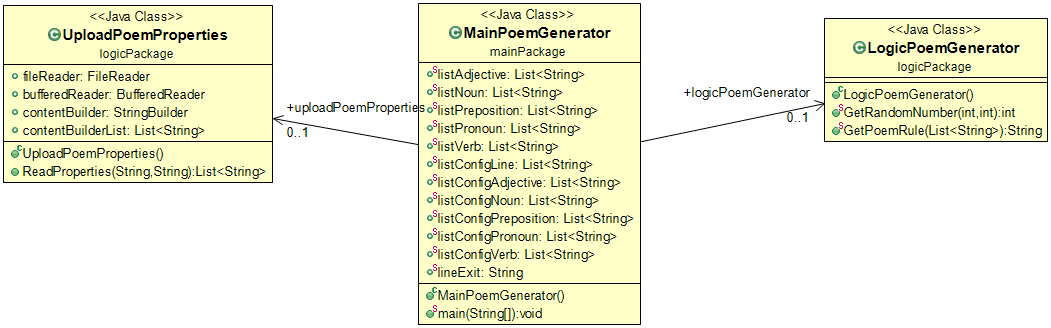
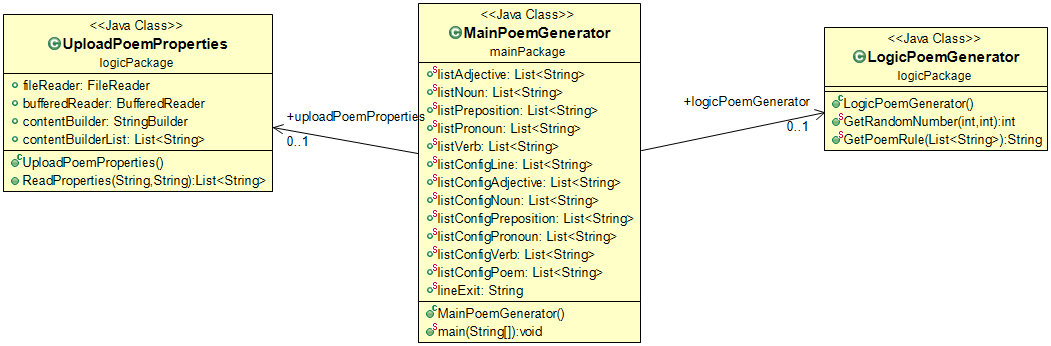
Maintenance Grammatical Rules and UplodaPoem Rules

diff --git a/src/mainPackage/MainPoemGenerator.java b/src/mainPackage/MainPoemGenerator.java
@@ -71,6 +71,11 @@ public class MainPoemGenerator {
 	public static List<String> listConfigVerb = new ArrayList<String>();
 	
 	/**
+	 * Public Variable assign to Save the number of Lines.
+	 */
+	public static List<String> listConfigPoem = new ArrayList<String>();
+	
+	/**
 	 *  Public Variable assign to contains all the method of the UploadPoemProperties class.
 	 */
 	public static UploadPoemProperties uploadPoemProperties = new UploadPoemProperties();
@@ -91,20 +96,26 @@ public class MainPoemGenerator {
 		String stringLine = "";
 		String lineIndicator = "";
 		
-			listAdjective = uploadPoemProperties.ReadProperties(("..\\Poem Generator\\Datos\\GrammaticalRules.txt"),"Adjective");
-			listNoun = uploadPoemProperties.ReadProperties(("..\\Poem Generator\\Datos\\GrammaticalRules.txt"),"Noun");
-			listPreposition = uploadPoemProperties.ReadProperties(("..\\Poem Generator\\Datos\\GrammaticalRules.txt"),"Preposition");
-			listPronoun = uploadPoemProperties.ReadProperties(("..\\Poem Generator\\Datos\\GrammaticalRules.txt"),"Pronoun");
-			listVerb = uploadPoemProperties.ReadProperties(("..\\Poem Generator\\Datos\\GrammaticalRules.txt"),"Verb");
-			
-			listConfigLine = uploadPoemProperties.ReadProperties("..\\\\Poem Generator\\\\Datos\\\\GrammaticalRules.txt","CLine");
-			listConfigAdjective = uploadPoemProperties.ReadProperties("..\\\\Poem Generator\\\\Datos\\\\GrammaticalRules.txt","CAdjective");
-			listConfigNoun = uploadPoemProperties.ReadProperties("..\\\\Poem Generator\\\\Datos\\\\GrammaticalRules.txt","CNoun");
-			listConfigPreposition = uploadPoemProperties.ReadProperties("..\\\\Poem Generator\\\\Datos\\\\GrammaticalRules.txt","CPreposition");
-			listConfigPronoun = uploadPoemProperties.ReadProperties("..\\\\Poem Generator\\\\Datos\\\\GrammaticalRules.txt","CPronoun");
-			listConfigVerb = uploadPoemProperties.ReadProperties("..\\\\Poem Generator\\\\Datos\\\\GrammaticalRules.txt","CVerb");
-		 				
-		for (int i = 0; i <5; i++) {
+		listConfigPoem = uploadPoemProperties.ReadProperties("..\\\\Poem Generator\\\\Datos\\\\GrammaticalRules.txt","POEM",1);
+		
+		listConfigLine = uploadPoemProperties.ReadProperties("..\\\\Poem Generator\\\\Datos\\\\GrammaticalRules.txt","LINE",1);
+		
+		listAdjective = uploadPoemProperties.ReadProperties(("..\\Poem Generator\\Datos\\GrammaticalRules.txt"),"ADJECTIVE",0);	
+		listConfigAdjective = uploadPoemProperties.ReadProperties("..\\\\Poem Generator\\\\Datos\\\\GrammaticalRules.txt","ADJECTIVE",1);
+
+		listNoun = uploadPoemProperties.ReadProperties(("..\\Poem Generator\\Datos\\GrammaticalRules.txt"),"NOUN",0);
+		listConfigNoun = uploadPoemProperties.ReadProperties("..\\\\Poem Generator\\\\Datos\\\\GrammaticalRules.txt","NOUN",1);
+		
+		listPronoun = uploadPoemProperties.ReadProperties(("..\\Poem Generator\\Datos\\GrammaticalRules.txt"),"PRONOUN",0);
+		listConfigPronoun = uploadPoemProperties.ReadProperties("..\\\\Poem Generator\\\\Datos\\\\GrammaticalRules.txt","PRONOUN",1);
+		
+		listVerb = uploadPoemProperties.ReadProperties(("..\\Poem Generator\\Datos\\GrammaticalRules.txt"),"VERB",0);
+		listConfigVerb = uploadPoemProperties.ReadProperties("..\\\\Poem Generator\\\\Datos\\\\GrammaticalRules.txt","VERB",1);
+		
+		listPreposition = uploadPoemProperties.ReadProperties(("..\\Poem Generator\\Datos\\GrammaticalRules.txt"),"PREPOSITION",0);
+		listConfigPreposition = uploadPoemProperties.ReadProperties("..\\\\Poem Generator\\\\Datos\\\\GrammaticalRules.txt","PREPOSITION",1);
+ 				
+		for (int i = 0; i <listConfigPoem.size(); i++) {
 			stringLine="";
 			lineIndicator = listConfigLine.get(LogicPoemGenerator.GetRandomNumber(0, listConfigLine.size()-1));
 			lineExit = lineIndicator;

diff --git a/src/logicPackage/UploadPoemProperties.java b/src/logicPackage/UploadPoemProperties.java
@@ -27,7 +27,7 @@ public class UploadPoemProperties {
 	* @exception This method thorw an exception when the route doesn't exist.
 	*/
 	@SuppressWarnings("null")
-	public List<String> ReadProperties(String route, String rowName) {
+	public List<String> ReadProperties(String route, String rowName, int sizeRow) {
 		contentBuilder.setLength(0);
 		contentBuilderList = new ArrayList<String>();
 		
@@ -45,16 +45,38 @@ public class UploadPoemProperties {
             bufferedReader.close();
             
             propiertyText = contentBuilder.toString();
-            
-            if  (propiertyText.contains("|") == true) propiertyText = propiertyText.replace("|", ",");
-          
             arrayAux = propiertyText.split(":");
-            arrayAux = arrayAux[1].toString().split(",");
             
+            switch(rowName) {
+            case "POEM":
+            	if  (arrayAux[sizeRow].contains(" ") == true) arrayAux[sizeRow] = arrayAux[sizeRow].replace(" ", ",");
+            	arrayAux = arrayAux[sizeRow].toString().split(",");
+            	break;
+            case "LINE":
+            	if  (arrayAux[sizeRow].contains(" ") == true) arrayAux[sizeRow] = arrayAux[sizeRow].replace(" ", "%");
+            	if  (arrayAux[sizeRow].contains("|") == true) arrayAux[sizeRow] = arrayAux[sizeRow].replace("|", ",");
+            	arrayAux = arrayAux[sizeRow].toString().split("%");
+            	arrayAux = arrayAux[sizeRow].toString().split(",");
+            	break;
+            default:
+            	if  (arrayAux[1].contains(" ") == true) arrayAux[1] = arrayAux[1].replace(" ", "%");
+            	arrayAux = arrayAux[1].toString().split("%");
+            	
+            	if (sizeRow==0) {
+            		if  (arrayAux[sizeRow+1].contains("|") == true) arrayAux[sizeRow+1] = arrayAux[sizeRow+1].replace("|", ",");
+            		arrayAux = arrayAux[sizeRow+1].toString().split(",");
+            		break;
+            	}else {
+            		if  (arrayAux[sizeRow+1].contains("|") == true) arrayAux[sizeRow+1] = arrayAux[sizeRow+1].replace("|", ",");
+            		arrayAux = arrayAux[sizeRow+1].toString().split(",");
+            		break;
+            	}
+            }
+
             for (String string : arrayAux) {
-            	contentBuilderList.add(string);
+            	if (!string.equals(""))contentBuilderList.add(string.trim());
 			}
-   
+
             return contentBuilderList;
 		} catch (Exception e) {
 			contentBuilderList.add(e.toString());
